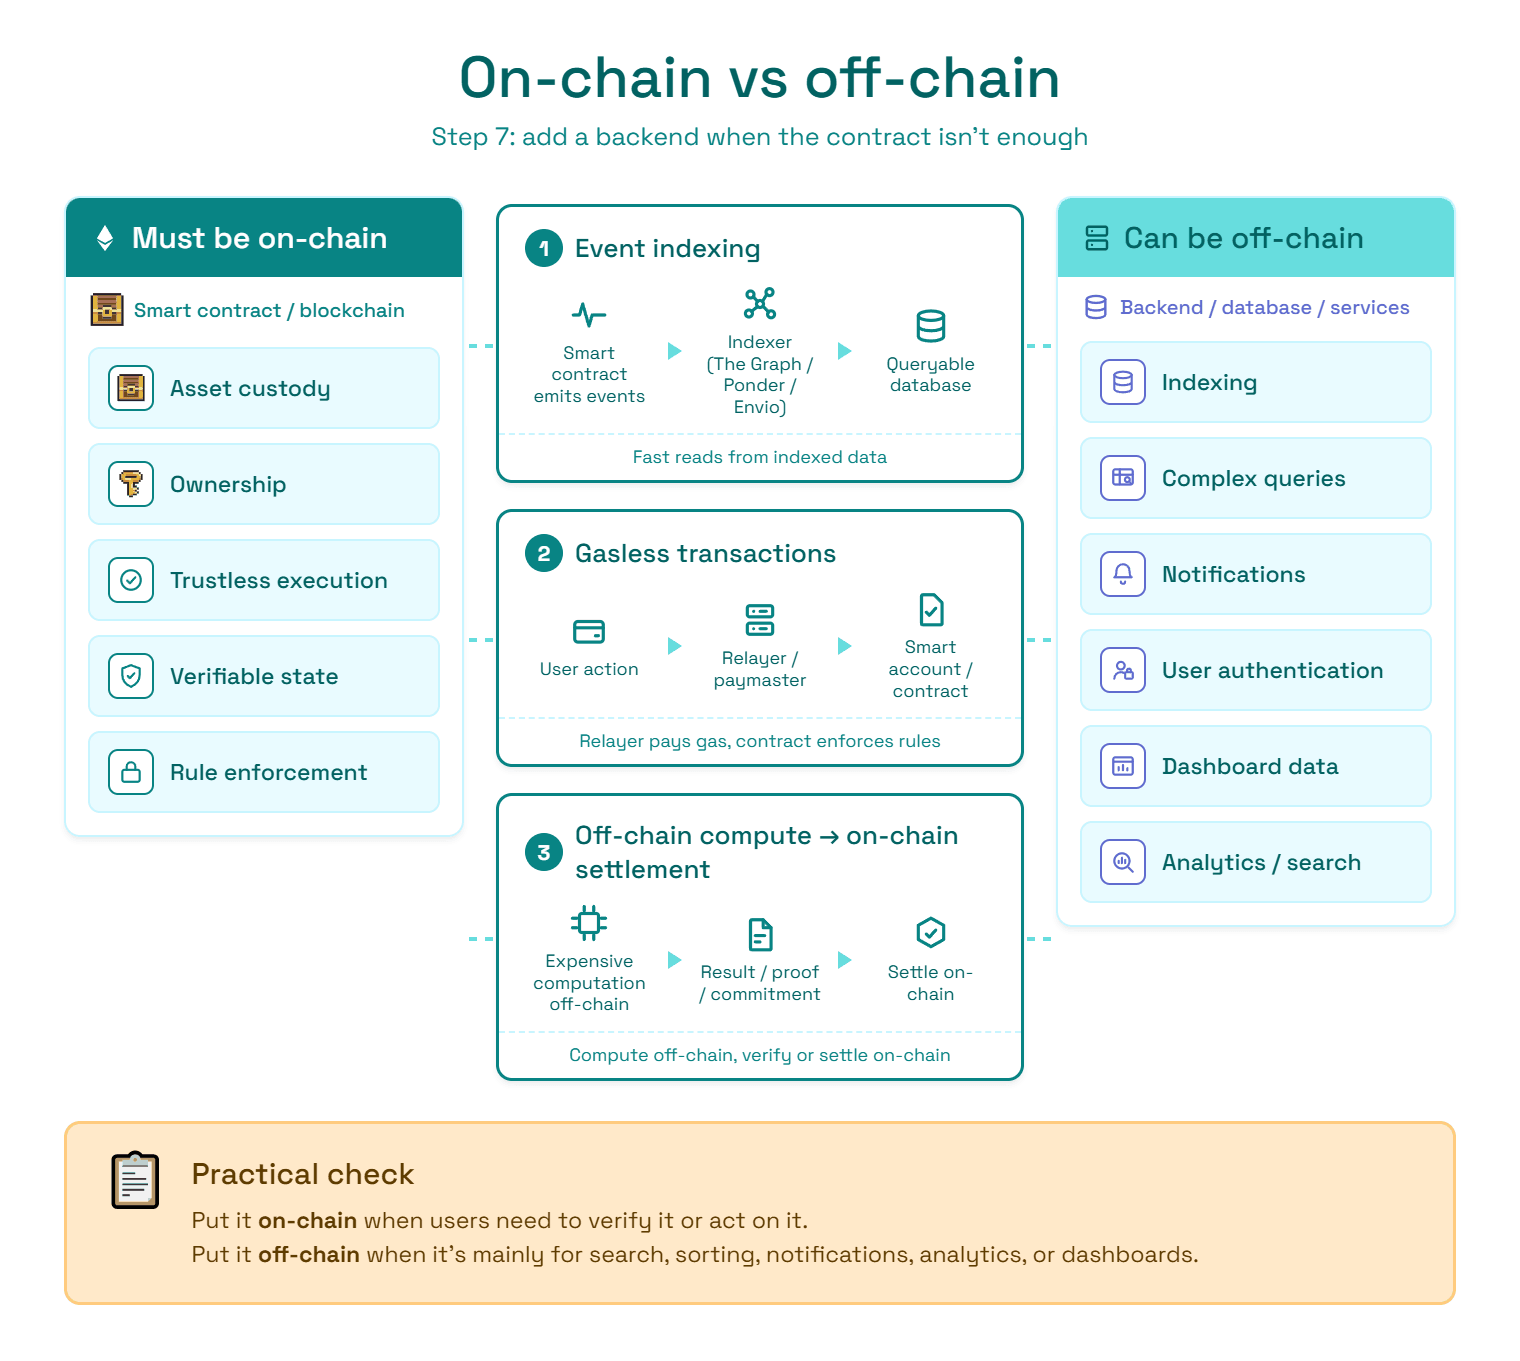
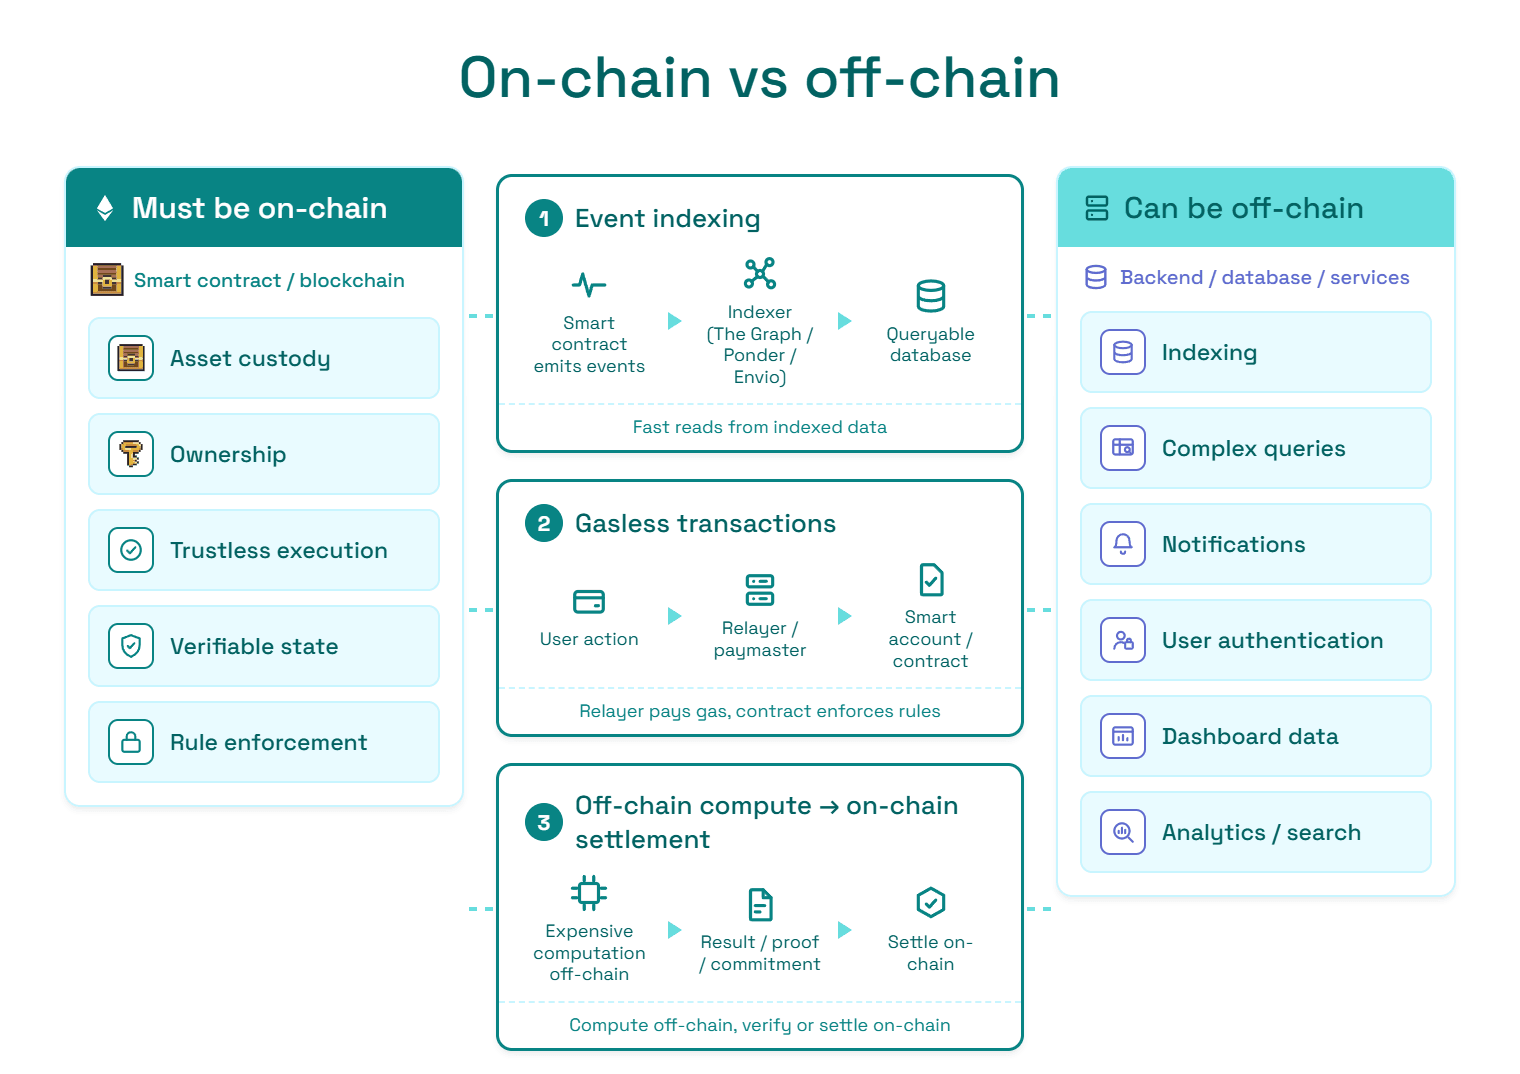
Tweak images and thumbnail name

diff --git a/packages/nextjs/guides/how-to-build-dapp-ethereum-ai-workflow.md b/packages/nextjs/guides/how-to-build-dapp-ethereum-ai-workflow.md
@@ -2,7 +2,7 @@
 title: "How to Build an Ethereum dApp with AI: The 2026 Workflow"
 date: "2026-04-29"
 description: "A practical workflow for building Ethereum dApps with AI: specs, Scaffold-ETH 2, smart contracts, frontend, security review, deployment, and launch."
-image: "/assets/guides/how-to-build-dapps-with-ai-thumbnail1.jpg"
+image: "/assets/guides/how-to-build-dapps-with-ai-thumbnail.jpg"
 showNavigation: true
 faqs:
   - question: "Do I need to know Solidity to build a dApp with AI?"